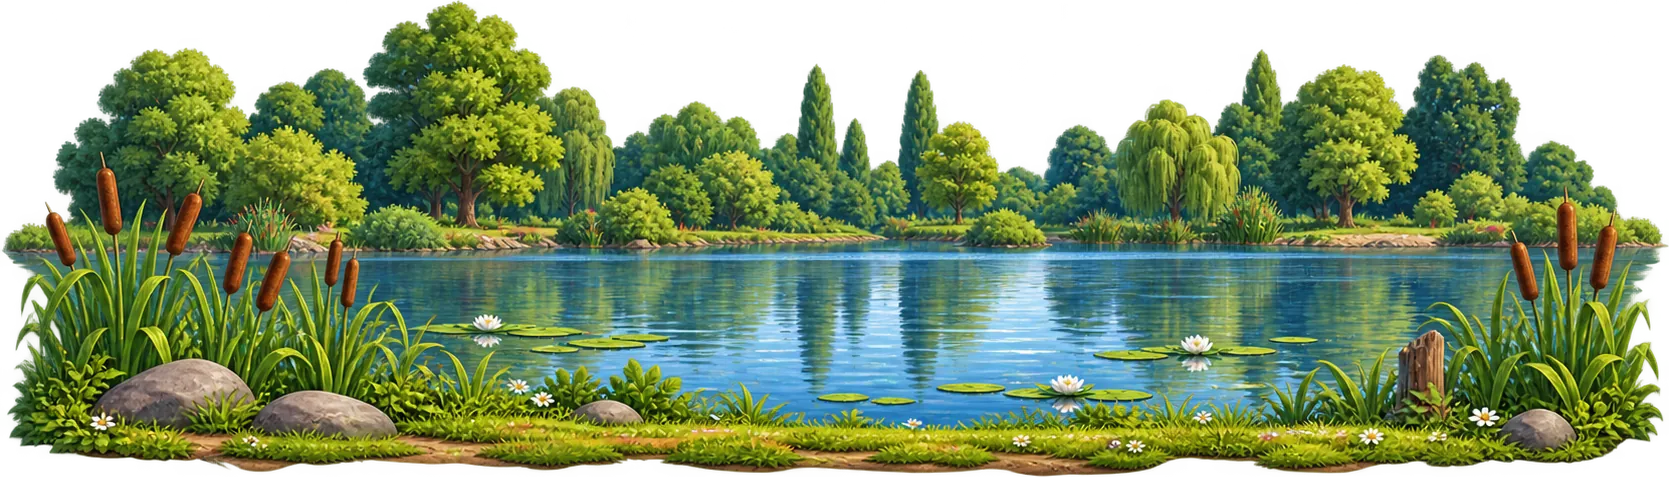
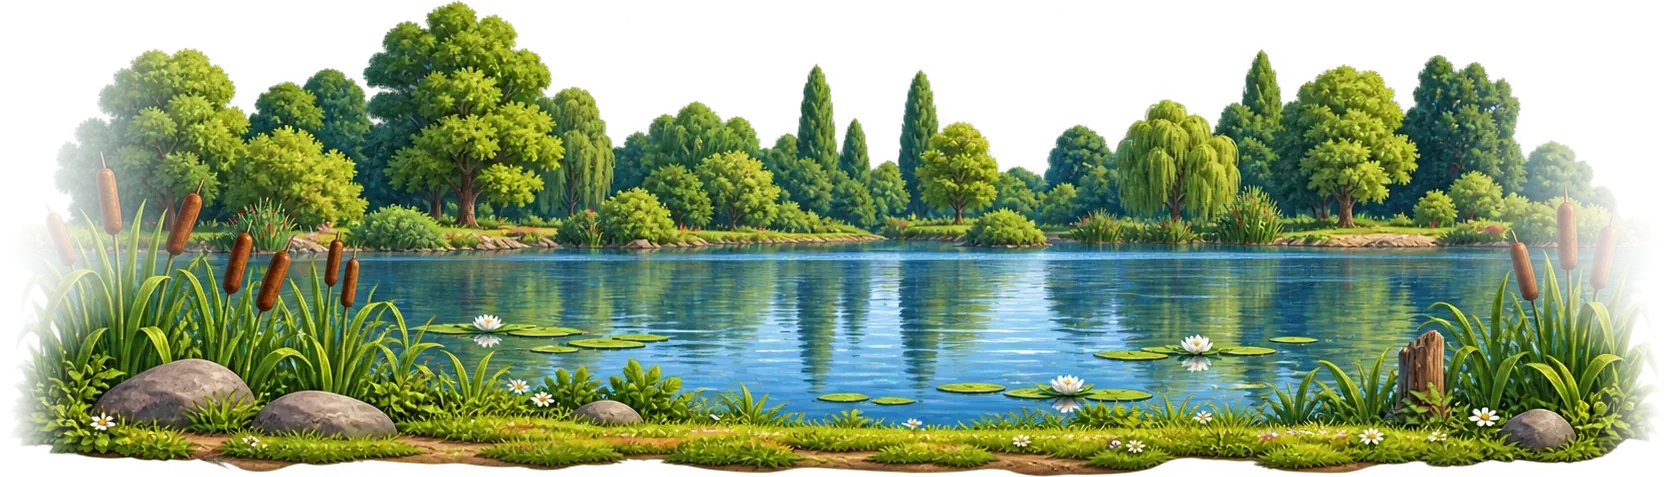
Zakryj konce kopidlenského rybníka skupinkou stromů a keřů
Obrázek rybníka se na krajích ztrácí do průhledna a přes oba konce
stojí vrba, dub, bříza, lípa a keře z lesa (na pravém konci zrcadlově).

Claude-Session: https://claude.ai/code/session_01HvbWHoqHLJQwfRFFMYyRvu

Changed region(s): [[0.0, 0.0881, 0.1246, 0.9686], [0.8724, 0.1468, 1.0, 0.9392]]

diff --git a/src/game/runner.ts b/src/game/runner.ts
@@ -359,7 +359,7 @@ function hash(n: number): number {
   return x - Math.floor(x);
 }
 
-const ART_REV = "38";
+const ART_REV = "39";
 
 async function loadImage(src: string): Promise<HTMLImageElement | null> {
   try {
@@ -1746,19 +1746,48 @@ export class Runner {
     return this.visualHalf("pond");
   }
 
+  /**
+   * Konce kopidlenského rybníka: obrázek se na krajích ztrácí do průhledna (pond.webp) a přes oba konce
+   * stojí skupinka stromů a keřů, ať rybník plynule přechází do krajiny a nikde nevisí ve vzduchu.
+   */
   private drawPondEndTrees(ctx: CanvasRenderingContext2D) {
-    const img = this.art.tree;
-    if (!(img instanceof HTMLImageElement) || !img.height) return;
-    const h = SPEC.tree.h * this.u;
-    const tw = h * (img.width / img.height);
-    const baked = this.baked(img, h * this.scale);
-    const feet = this.groundY;
+    const feet = this.groundY + 2;
+    // [druh, výška v u, posun od kraje rybníka ven (+) či dovnitř (-) v u, zrcadlit, zadní řada]
+    const group: [string, number, number, boolean, boolean][] = [
+      ["forest-oak", 1.55, 0.35, false, true],
+      ["forest-birch", 1.6, -0.55, true, true],
+      ["forest-willow", 1.75, -0.05, false, false],
+      ["forest-linden", 1.5, 0.95, true, false],
+      ["bush", 0.5, -0.75, false, false],
+      ["bush", 0.48, 0.45, true, false],
+    ];
     for (const ent of this.ents) {
       if (!ent.alive || ent.kind !== "pond") continue;
-      const edge = ent.x - this.camera + this.pondHalf();
-      if (edge < -this.cullMargin || edge > this.viewW + this.cullMargin) continue;
-      const x = edge + tw * 0.08;
-      ctx.drawImage(baked, this.snap(x - tw / 2), this.snap(feet - h), tw, h);
+      const half = this.pondHalf();
+      const center = ent.x - this.camera;
+      if (center + half < -this.cullMargin || center - half > this.viewW + this.cullMargin) continue;
+      for (const side of [-1, 1] as const) {
+        const edge = center + side * half;
+        for (const [kind, size, out, mirror, far] of group) {
+          const img = this.art[kind];
+          if (!(img instanceof HTMLImageElement) || !img.height) continue;
+          const h = size * this.u;
+          const w = h * (img.width / img.height);
+          const x = edge + side * out * this.u;
+          const baked = far ? this.bakedFar(img, h * this.scale) : this.baked(img, h * this.scale);
+          // Na pravém konci zrcadlově, ať skupinka není dvakrát stejná.
+          const flip = (side === 1) !== mirror;
+          if (flip) {
+            ctx.save();
+            ctx.translate(this.snap(x), 0);
+            ctx.scale(-1, 1);
+            ctx.drawImage(baked, -w / 2, this.snap(feet - h), w, h);
+            ctx.restore();
+          } else {
+            ctx.drawImage(baked, this.snap(x - w / 2), this.snap(feet - h), w, h);
+          }
+        }
+      }
     }
   }
 
